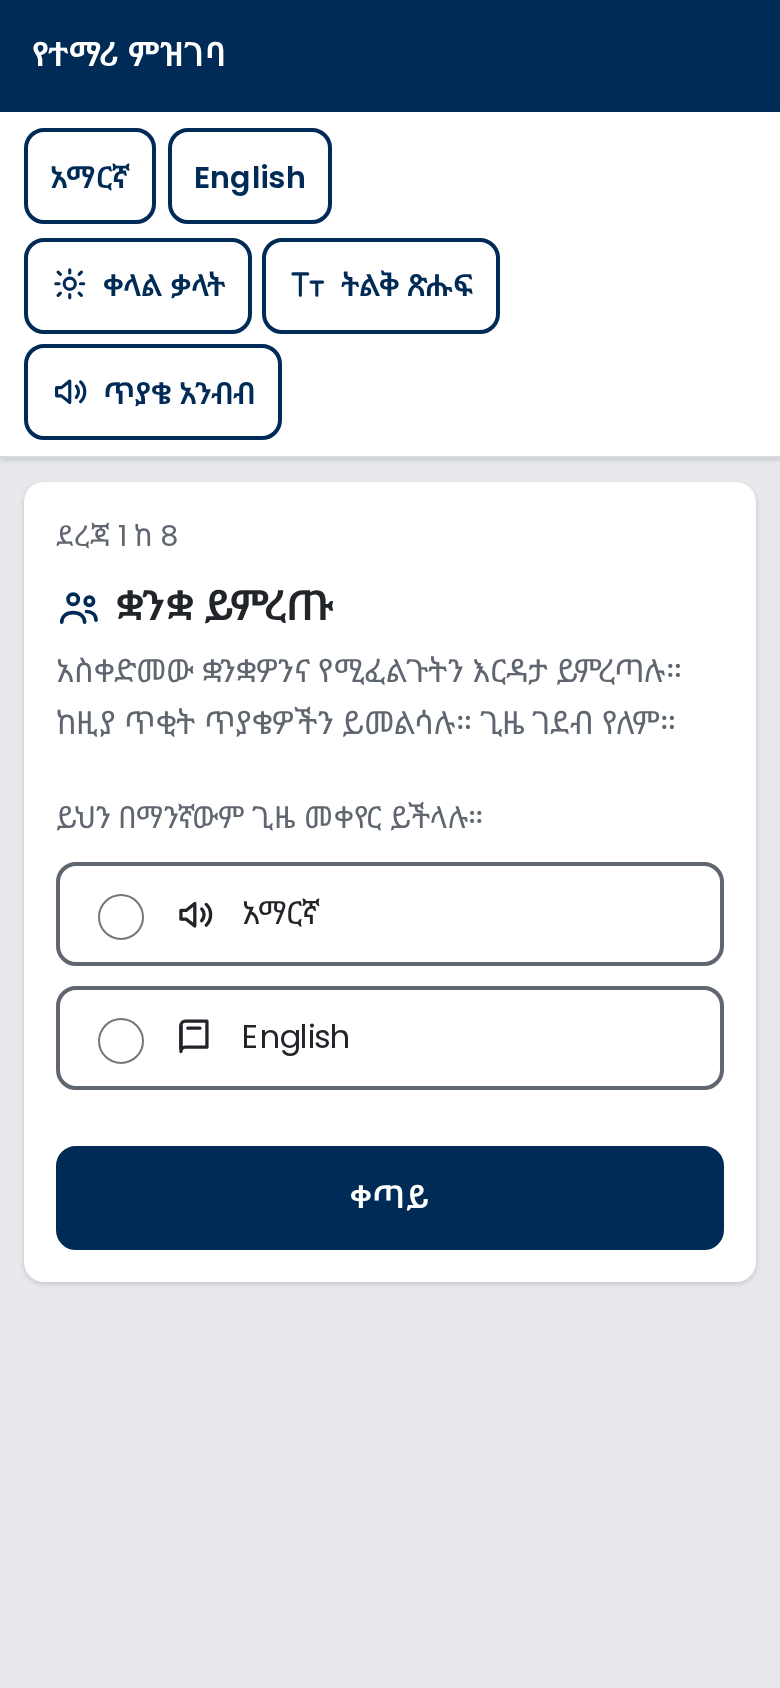
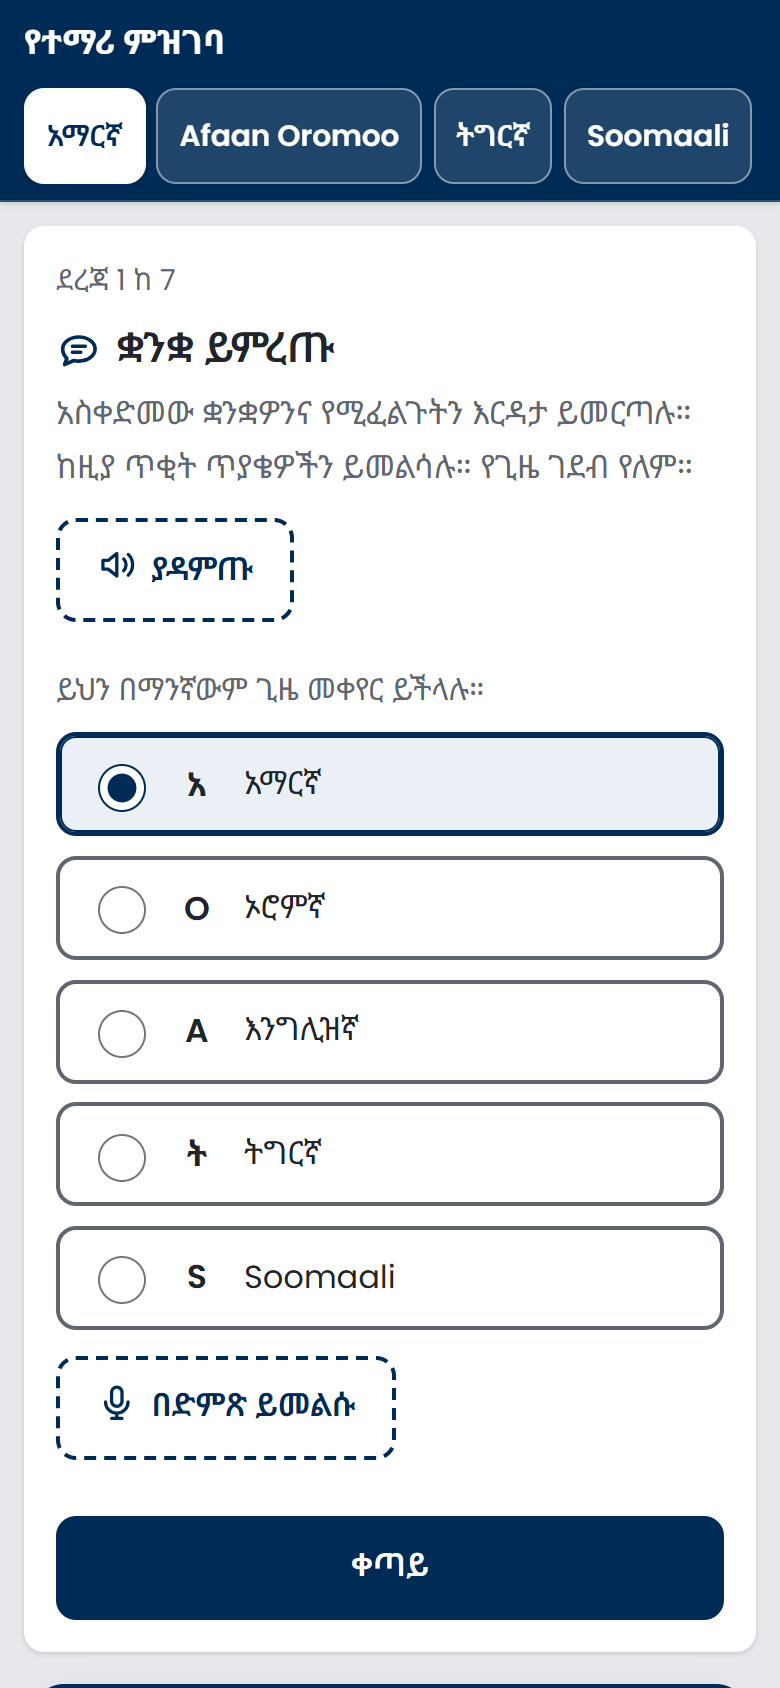
feat(ui): unify header into full-width single-line top bar and fix wake button WCAG

Changed region(s): [[0.0, 0.0, 1.0, 0.8626], [0.0615, 0.8934, 0.9538, 1.0], [0.4923, 0.8318, 0.5231, 0.8626]]

diff --git a/app/src/styles.css b/app/src/styles.css
@@ -39,18 +39,47 @@ body {
   padding-bottom: 3rem;
 }
 
-/* ---- navy band: Savanna's header colour ---------------------------------- */
+/* ---- navy band & settings bar: unified top bar --------------------------- */
+.op-band.op-settingsbar,
+.op-settingsbar {
+  position: sticky;
+  top: 0;
+  z-index: 20;
+  max-height: 40dvh;          /* on a short window (or 200% zoom) the bar scrolls itself, not the page */
+  overflow-y: hidden;
+  background: var(--op-primary);
+  color: #ffffff;
+  border-bottom: 1px solid rgba(255, 255, 255, 0.18);
+  padding: 0.5rem 1.5rem;
+  box-shadow: var(--op-shadow);
+  display: flex;
+  flex-direction: row;
+  align-items: center;
+  justify-content: space-between;
+  gap: 1rem;
+  width: 100%;
+  box-sizing: border-box;
+}
+
 .op-band {
   background: var(--op-primary);
   color: #ffffff;
-  padding: 0.9rem max(1rem, calc((100% - 46rem) / 2));
-  display: flex;
-  flex-wrap: wrap;
-  gap: 0.5rem 1rem;
-  align-items: center;
-  justify-content: space-between;
 }
-.op-brand { margin: 0; font-weight: 600; font-size: 1.05rem; letter-spacing: 0.01em; }
+
+.op-brand-wrap {
+  display: flex;
+  align-items: center;
+  flex-shrink: 0;
+}
+
+.op-brand {
+  margin: 0;
+  font-weight: 700;
+  font-size: 1.1rem;
+  letter-spacing: 0.01em;
+  color: #ffffff;
+  white-space: nowrap;
+}
 
 .op-skip {
   position: absolute;
@@ -71,21 +100,9 @@ body {
    browser's scroll-into-view has to know how tall the bar is. App.tsx keeps --op-bar-h honest. */
 html { scroll-padding-top: calc(var(--op-bar-h, 112px) + 8px); }
 
-.op-settingsbar {
-  position: sticky;
-  top: 0;
-  z-index: 20;
-  max-height: 40dvh;          /* on a short window (or 200% zoom) the bar scrolls itself, not the page */
-  overflow-y: hidden;
-  background: var(--op-surface);
-  border-bottom: 1px solid var(--op-line);
-  padding: 0.45rem max(0.75rem, calc((100% - 60rem) / 2));
-  box-shadow: var(--op-shadow);
-}
-
 .op-root {
   max-width: 46rem;
-  margin: 1rem auto 0;
+  margin: 1.5rem auto 0;
   padding: 1.25rem;
   background: var(--op-surface);
   border-radius: var(--op-radius);
@@ -98,9 +115,10 @@ html { scroll-padding-top: calc(var(--op-bar-h, 112px) + 8px); }
   display: flex;
   flex-wrap: nowrap;
   align-items: center;
-  justify-content: space-between;
-  gap: 0.6rem;
-  width: 100%;
+  justify-content: flex-end;
+  gap: 0.5rem;
+  flex-shrink: 1;
+  min-width: 0;
   overflow-x: auto;
   scrollbar-width: none;
   -ms-overflow-style: none;
@@ -114,7 +132,7 @@ html { scroll-padding-top: calc(var(--op-bar-h, 112px) + 8px); }
   display: flex;
   flex-wrap: nowrap;
   align-items: center;
-  gap: 0.3rem;
+  gap: 0.35rem;
   flex-shrink: 0;
 }
 
@@ -122,9 +140,9 @@ html { scroll-padding-top: calc(var(--op-bar-h, 112px) + 8px); }
   display: flex;
   flex-wrap: nowrap;
   align-items: center;
-  gap: 0.3rem;
+  gap: 0.35rem;
   flex-shrink: 0;
-  border-left: 1px solid var(--op-line);
+  border-left: 1px solid rgba(255, 255, 255, 0.35);
   padding-left: 0.6rem;
 }
 
@@ -134,31 +152,51 @@ html { scroll-padding-top: calc(var(--op-bar-h, 112px) + 8px); }
   display: inline-flex;
   align-items: center;
   justify-content: center;
-  padding: 0.25rem 0.6rem;
+  padding: 0.25rem 0.65rem;
   font-size: 0.92rem;
   white-space: nowrap;
-  background: var(--op-surface);
-  color: var(--op-primary);
-  border: 2px solid var(--op-border);
+  background: rgba(255, 255, 255, 0.12);
+  color: #ffffff;
+  border: 1.5px solid rgba(255, 255, 255, 0.45);
   border-radius: var(--op-radius);
   transition: background 0.15s ease, border-color 0.15s ease, color 0.15s ease;
+  cursor: pointer;
 }
 .op-settings .op-btn-chip:hover {
-  background: var(--op-primary-tint);
-  border-color: var(--op-primary);
+  background: rgba(255, 255, 255, 0.22);
+  border-color: #ffffff;
+}
+.op-settings .op-btn-chip:focus-visible {
+  outline: 3px solid #ffffff;
+  outline-offset: 2px;
 }
 .op-settings .op-btn-chip[aria-pressed='true'] {
-  background: var(--op-primary);
-  color: #ffffff;
-  border-color: var(--op-primary);
-  box-shadow: 0 1px 3px rgba(0, 43, 86, 0.3);
+  background: #ffffff;
+  color: var(--op-primary);
+  border-color: #ffffff;
+  font-weight: 600;
+  box-shadow: 0 1px 3px rgba(0, 0, 0, 0.25);
 }
 .op-settings .op-btn-chip[aria-pressed='true']:hover {
-  background: var(--op-primary-hover);
-  border-color: var(--op-primary-hover);
+  background: #f1f5f9;
+  border-color: #ffffff;
 }
 .op-settings .op-btn-chip[aria-pressed='true'] .op-svg {
-  color: #ffffff;
+  color: var(--op-primary);
+}
+
+@media (max-width: 47.99rem) {
+  .op-band.op-settingsbar,
+  .op-settingsbar {
+    flex-direction: column;
+    align-items: stretch;
+    gap: 0.5rem;
+    padding: 0.5rem 0.75rem;
+  }
+  .op-settings {
+    justify-content: flex-start;
+    width: 100%;
+  }
 }
 .op-shell[data-big='true'] .op-root { max-width: 40rem; }
 
@@ -751,24 +789,39 @@ html { scroll-padding-top: calc(var(--op-bar-h, 112px) + 8px); }
   body.roha-layout {
     display: grid !important;
     grid-template-columns: minmax(0, 1fr) minmax(18rem, 25rem) !important;
+    grid-template-rows: auto 1fr !important;
     align-items: start !important;
-    gap: 1.5rem !important;
-    padding-right: 1.5rem !important;
+    column-gap: 1.5rem !important;
+    row-gap: 0 !important;
+    padding: 0 !important;
+    margin: 0 !important;
   }
-  body.roha-layout > #root {
-    grid-column: 1 !important;
+  body.roha-layout > #root,
+  body.roha-layout .op-shell {
+    display: contents !important;
+  }
+  body.roha-layout .op-settingsbar,
+  .op-settingsbar {
+    grid-column: 1 / -1 !important;
     grid-row: 1 !important;
-    min-width: 0 !important;
+    width: 100% !important;
+  }
+  body.roha-layout .op-root,
+  .op-root {
+    grid-column: 1 !important;
+    grid-row: 2 !important;
+    margin: 1.5rem auto 1.5rem auto !important;
+    max-width: 46rem !important;
+    width: calc(100% - 2rem) !important;
   }
   body.roha-layout > .roha-aside,
   .roha-aside {
     grid-column: 2 !important;
-    grid-row: 1 !important;
+    grid-row: 2 !important;
     position: sticky !important;
-    top: calc(var(--op-bar-h, 60px) + 1rem) !important;
-    margin-top: calc(var(--op-bar-h, 60px) + 4.5rem) !important;
-    margin-bottom: 1.5rem !important;
-    max-height: calc(100vh - var(--op-bar-h, 60px) - 2rem) !important;
+    top: calc(var(--op-bar-h, 60px) + 1.5rem) !important;
+    margin: 1.5rem 1.5rem 1.5rem 0 !important;
+    max-height: calc(100vh - var(--op-bar-h, 60px) - 3rem) !important;
     overflow-y: auto !important;
   }
 }

diff --git a/app/public/roha.js b/app/public/roha.js
@@ -28,7 +28,7 @@ User request: "${e}"`}]}],generationConfig:{responseMimeType:"application/json",
       <div id="roha-full-card" class="roha-card">
         <div class="roha-header">
           <h2 class="roha-title">${t("roha.title")}</h2>
-          <button id="roha-wake-trigger" type="button" class="roha-wake-pill" style="display:inline-flex;align-items:center;gap:4px;font-size:0.75rem;padding:3px 8px;border-radius:12px;background:#eef2ff;color:#1e40af;font-weight:600;letter-spacing:0.02em;border:none;cursor:pointer;" title="${this.t({en:'Say "Roha" or click to wake',am:'"\u122E\u1203" \u12ED\u1260\u1209 \u12C8\u12ED\u121D \u12A5\u12DA\u1205 \u12ED\u132B\u1291',om:'"Roha" jedhaa ykn as tuqaa',ti:'"\u122E\u1203" \u1260\u1209 \u12C8\u12ED \u12A3\u1265\u12DA \u1320\u12CD\u1241',so:'Dheh "Roha" ama riix halkan'})}">\u{1F399}\uFE0F ${this.t({en:'Say "Roha"',am:'"\u122E\u1203" \u12ED\u1260\u1209',om:'"Roha" jedhaa',ti:'"\u122E\u1203" \u1260\u1209',so:'Dheh "Roha"'})}</button>
+          <button id="roha-wake-trigger" type="button" class="roha-wake-pill" aria-label="${this.t({en:"Say Roha or click to wake assistant",am:"\u122E\u1203 \u12ED\u1260\u1209 \u12C8\u12ED\u121D \u1228\u12F3\u1271\u1295 \u1208\u121B\u1295\u1243\u1275 \u12A5\u12DA\u1205 \u12ED\u132B\u1291",om:"Roha jedhaa ykn as tuqaa",ti:"\u122E\u1203 \u1260\u1209 \u12C8\u12ED \u1228\u12F3\u12A2 \u1295\u121D\u1265\u122B\u12BD \u12A3\u1265\u12DA \u1320\u12CD\u1241",so:"Dheh Roha ama riix halkan"})}" title="${this.t({en:'Say "Roha" or click to wake',am:'"\u122E\u1203" \u12ED\u1260\u1209 \u12C8\u12ED\u121D \u12A5\u12DA\u1205 \u12ED\u132B\u1291',om:'"Roha" jedhaa ykn as tuqaa',ti:'"\u122E\u1203" \u1260\u1209 \u12C8\u12ED \u12A3\u1265\u12DA \u1320\u12CD\u1241',so:'Dheh "Roha" ama riix halkan'})}"><svg aria-hidden="true" width="16" height="16" viewBox="0 0 24 24" fill="none" stroke="currentColor" stroke-width="2" stroke-linecap="round" stroke-linejoin="round" style="display:inline-block;vertical-align:middle;flex-shrink:0;"><rect x="9" y="3" width="6" height="11" rx="3"></rect><path d="M5.5 11.5a6.5 6.5 0 0 0 13 0M12 18v3M9 21h6"></path></svg> ${this.t({en:'Say "Roha"',am:'"\u122E\u1203" \u12ED\u1260\u1209',om:'"Roha" jedhaa',ti:'"\u122E\u1203" \u1260\u1209',so:'Dheh "Roha"'})}</button>
         </div>
         <p class="roha-subtitle">${t("roha.inlineIntro")}</p>
         <div class="roha-grid roha-top-actions">

diff --git a/app/public/roha.css b/app/public/roha.css
@@ -70,6 +70,31 @@
   justify-content: space-between;
   gap: 0.5rem;
 }
+.roha-aside .roha-wake-pill {
+  display: inline-flex;
+  align-items: center;
+  justify-content: center;
+  gap: 6px;
+  font-size: 0.85rem;
+  min-height: 36px;
+  min-width: 44px;
+  padding: 6px 12px;
+  border-radius: 18px;
+  background: #eef2ff;
+  color: #1e40af;
+  font-weight: 600;
+  border: 1.5px solid #a5b4fc;
+  cursor: pointer;
+  transition: background 0.15s ease, border-color 0.15s ease;
+}
+.roha-aside .roha-wake-pill:hover {
+  background: #e0e7ff;
+  border-color: #6366f1;
+}
+.roha-aside .roha-wake-pill:focus-visible {
+  outline: 3px solid #1e40af;
+  outline-offset: 2px;
+}
 .roha-aside .roha-title {
   font-size: 1.35rem;
   margin: 0;
@@ -194,24 +219,39 @@
   body.roha-layout {
     display: grid !important;
     grid-template-columns: minmax(0, 1fr) minmax(18rem, 25rem) !important;
+    grid-template-rows: auto 1fr !important;
     align-items: start !important;
-    gap: 1.5rem !important;
-    padding-right: 1.5rem !important;
+    column-gap: 1.5rem !important;
+    row-gap: 0 !important;
+    padding: 0 !important;
+    margin: 0 !important;
   }
-  body.roha-layout > #root {
-    grid-column: 1 !important;
+  body.roha-layout > #root,
+  body.roha-layout .op-shell {
+    display: contents !important;
+  }
+  body.roha-layout .op-settingsbar,
+  .op-settingsbar {
+    grid-column: 1 / -1 !important;
     grid-row: 1 !important;
-    min-width: 0 !important;
+    width: 100% !important;
+  }
+  body.roha-layout .op-root,
+  .op-root {
+    grid-column: 1 !important;
+    grid-row: 2 !important;
+    margin: 1.5rem auto 1.5rem auto !important;
+    max-width: 46rem !important;
+    width: calc(100% - 2rem) !important;
   }
   body.roha-layout > .roha-aside,
   .roha-aside {
     grid-column: 2 !important;
-    grid-row: 1 !important;
+    grid-row: 2 !important;
     position: sticky !important;
-    top: calc(var(--op-bar-h, 60px) + 1rem) !important;
-    margin-top: calc(var(--op-bar-h, 60px) + 4.5rem) !important;
-    margin-bottom: 1.5rem !important;
-    max-height: calc(100vh - var(--op-bar-h, 60px) - 2rem) !important;
+    top: calc(var(--op-bar-h, 60px) + 1.5rem) !important;
+    margin: 1.5rem 1.5rem 1.5rem 0 !important;
+    max-height: calc(100vh - var(--op-bar-h, 60px) - 3rem) !important;
     overflow-y: auto !important;
   }
 }

diff --git a/app/src/roha/index.ts b/app/src/roha/index.ts
@@ -2097,13 +2097,19 @@ export class RohaSDK {
       <div id="roha-full-card" class="roha-card">
         <div class="roha-header">
           <h2 class="roha-title">${text('roha.title')}</h2>
-          <button id="roha-wake-trigger" type="button" class="roha-wake-pill" style="display:inline-flex;align-items:center;gap:4px;font-size:0.75rem;padding:3px 8px;border-radius:12px;background:#eef2ff;color:#1e40af;font-weight:600;letter-spacing:0.02em;border:none;cursor:pointer;" title="${this.t({
+          <button id="roha-wake-trigger" type="button" class="roha-wake-pill" aria-label="${this.t({
+            en: 'Say Roha or click to wake assistant',
+            am: 'ሮሃ ይበሉ ወይም ረዳቱን ለማንቃት እዚህ ይጫኑ',
+            om: 'Roha jedhaa ykn as tuqaa',
+            ti: 'ሮሃ በሉ ወይ ረዳኢ ንምብራኽ ኣብዚ ጠውቁ',
+            so: 'Dheh Roha ama riix halkan',
+          })}" title="${this.t({
             en: 'Say "Roha" or click to wake',
             am: '"ሮሃ" ይበሉ ወይም እዚህ ይጫኑ',
             om: '"Roha" jedhaa ykn as tuqaa',
             ti: '"ሮሃ" በሉ ወይ ኣብዚ ጠውቁ',
             so: 'Dheh "Roha" ama riix halkan',
-          })}">🎙 ${this.t({
+          })}"><svg aria-hidden="true" width="16" height="16" viewBox="0 0 24 24" fill="none" stroke="currentColor" stroke-width="2" stroke-linecap="round" stroke-linejoin="round" style="display:inline-block;vertical-align:middle;flex-shrink:0;"><rect x="9" y="3" width="6" height="11" rx="3"></rect><path d="M5.5 11.5a6.5 6.5 0 0 0 13 0M12 18v3M9 21h6"></path></svg> ${this.t({
             en: 'Say "Roha"',
             am: '"ሮሃ" ይበሉ',
             om: '"Roha" jedhaa',

diff --git a/app/src/App.tsx b/app/src/App.tsx
@@ -544,9 +544,11 @@ function Shell({ schema }: { schema: Schema }) {
   if (f.submitted) {
     return (
       <div className="op-shell" data-big={settings.big || undefined}>
-        <div className="op-band">
-          <p className="op-brand">{t(schema.title, lang)}</p>
-        </div>
+        <header className="op-band op-settingsbar">
+          <div className="op-brand-wrap">
+            <p className="op-brand">{t(schema.title, lang)}</p>
+          </div>
+        </header>
         <main className="op-root op-done">
           {(() => {
             const isPartner = f.submitted && (f.submitted as Record<string, unknown>)['id-route'] === 'refer';
@@ -685,18 +687,17 @@ function Shell({ schema }: { schema: Schema }) {
       <a className="op-skip" href="#op-main">
         {c('nav.skip', lang)}
       </a>
-      <header className="op-band">
-        <p className="op-brand">{t(schema.title, lang)}</p>
-      </header>
-
-      <div className="op-settingsbar">
+      <header className="op-band op-settingsbar">
+        <div className="op-brand-wrap">
+          <p className="op-brand">{t(schema.title, lang)}</p>
+        </div>
         <SettingsBar
           lang={lang} setLang={(l: Lang) => setSettings({ ...settings, lang: l })}
           simple={settings.simple} setSimple={(b) => setSettings({ ...settings, simple: b })}
           big={settings.big} setBig={(b) => setSettings({ ...settings, big: b })}
           autoRead={settings.readAloud} setAutoRead={(b) => setSettings({ ...settings, readAloud: b })}
         />
-      </div>
+      </header>
 
       <p className="op-sr" role="status" aria-live="polite">{announce}</p>
 
